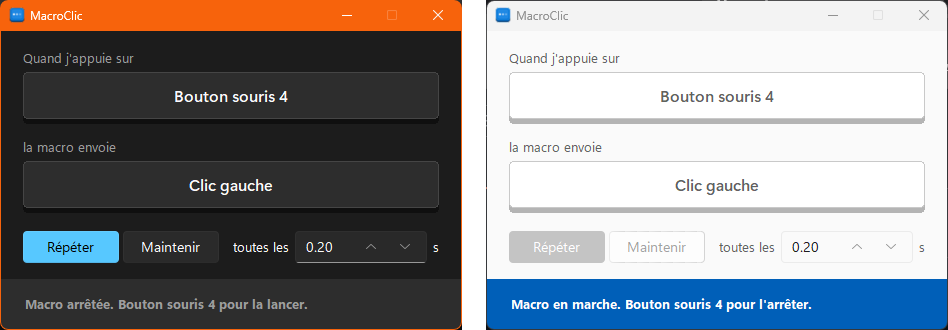
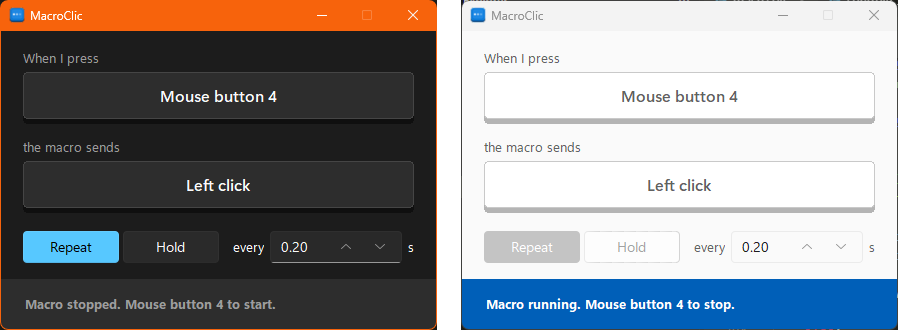
Translate the interface and key names to English
Key names no longer come from GetKeyNameTextW, which follows the keyboard
layout's language; saved names are rebuilt on load.

diff --git a/macroclic.py b/macroclic.py
@@ -24,9 +24,9 @@ PRESS_TIME = 0.04          # how long a repeated press stays down (seconds)
 MIN_INTERVAL, MAX_INTERVAL = 0.05, 3600
 CONFIG = Path(os.environ.get("APPDATA", ".")) / APP / "config.json"
 
-MOUSE_NAMES = {"left": "Clic gauche", "right": "Clic droit",
-               "middle": "Clic molette", "x1": "Bouton souris 4",
-               "x2": "Bouton souris 5"}
+MOUSE_NAMES = {"left": "Left click", "right": "Right click",
+               "middle": "Middle click", "x1": "Mouse button 4",
+               "x2": "Mouse button 5"}
 
 
 # ─── Inputs ───────────────────────────────────────────────────────────────────
@@ -47,8 +47,17 @@ def mouse_input(button):
 
 def key_input(vk, scan, ext):
     return {"id": key_id(vk, ext),
-            "name": winput.key_name(scan, ext) or f"Touche {vk}",
+            "name": winput.key_name(vk, ext),
             "scan": scan, "ext": ext}
+
+
+def renamed(inp):
+    """Copy with the display name rebuilt: names on disk may be stale (older
+    version, other keyboard layout) and aren't trusted."""
+    kind, _, value = inp["id"].partition(":")
+    if kind == "mouse":
+        return mouse_input(value)
+    return key_input(int(value.partition(":")[0]), inp["scan"], inp["ext"])
 
 
 def vk_of(inp):
@@ -74,8 +83,7 @@ def send(inp, up):
 def valid(inp, role):
     """role = "trigger" | "action". Left click can't be the trigger: it would
     be swallowed system-wide, including clicks on this window."""
-    if not (isinstance(inp, dict) and isinstance(inp.get("id"), str)
-            and isinstance(inp.get("name"), str)):
+    if not (isinstance(inp, dict) and isinstance(inp.get("id"), str)):
         return False
     kind, _, value = inp["id"].partition(":")
     if kind == "mouse":
@@ -108,7 +116,7 @@ def load_config():
         return
     for k in ("trigger", "action"):
         if valid(saved.get(k), k):
-            cfg[k] = saved[k]
+            cfg[k] = renamed(saved[k])
     interval = saved.get("interval")
     if not isinstance(interval, bool) and (value := parse_interval(interval)):
         cfg["interval"] = value
@@ -334,8 +342,8 @@ def build_ui(root):
             anchor="w", pady=(top, 6))
 
     keycaps = {}
-    for key, text, top in (("trigger", "Quand j'appuie sur", 0),
-                           ("action", "la macro envoie", 14)):
+    for key, text, top in (("trigger", "When I press", 0),
+                           ("action", "the macro sends", 14)):
         caption(text, top)
         keycaps[key] = Keycap(body, pal, scale, key_font,
                               lambda k=key: start_capture(k))
@@ -345,13 +353,13 @@ def build_ui(root):
     mode_row.pack(anchor="w", pady=(18, 0))
     hold = tk.BooleanVar(value=cfg["hold"])
     modes = []
-    for text, value, gap in (("Répéter", False, 4), ("Maintenir", True, 14)):
+    for text, value, gap in (("Repeat", False, 4), ("Hold", True, 14)):
         mode = ttk.Radiobutton(mode_row, text=text, value=value, variable=hold,
                                style="Toggle.TButton", width=9,
                                command=lambda: cfg.update(hold=hold.get()))
         mode.pack(side="left", padx=(0, gap))
         modes.append(mode)
-    every = ttk.Label(mode_row, text="toutes les", font=small)
+    every = ttk.Label(mode_row, text="every", font=small)
     every.pack(side="left")
     interval = tk.StringVar(value=f"{cfg['interval']:.2f}")
     spin = ttk.Spinbox(mode_row, from_=MIN_INTERVAL, to=MAX_INTERVAL, increment=0.05,
@@ -389,24 +397,24 @@ def build_ui(root):
             save_config()
         root.after(100, refresh)
         for key, cap in keycaps.items():
-            cap.show("Appuie sur une touche…" if capture == key
+            cap.show("Press a key or button…" if capture == key
                      else cfg[key]["name"], capture == key, not active)
         trig = cfg["trigger"]["name"]
         if hook_error:
-            text, bg, fg = (f"Raccourcis inactifs : {hook_error}",
+            text, bg, fg = (f"Trigger unavailable: {hook_error}",
                             pal["face"], pal["error"])
         elif capture == "trigger":
-            text, bg, fg = ("Appuie sur la touche ou le bouton de souris qui "
-                            "lancera la macro (pas le clic gauche). Échap pour "
-                            "annuler.", pal["face"], pal["fg"])
+            text, bg, fg = ("Press the key or mouse button that will start "
+                            "the macro (not left click). Esc to cancel.",
+                            pal["face"], pal["fg"])
         elif capture == "action":
-            text, bg, fg = ("Appuie sur la touche ou le bouton de souris à "
-                            "envoyer. Échap pour annuler.", pal["face"], pal["fg"])
+            text, bg, fg = ("Press the key or mouse button the macro should "
+                            "send. Esc to cancel.", pal["face"], pal["fg"])
         elif active:
-            text, bg, fg = (f"Macro en marche. {trig} pour l'arrêter.",
+            text, bg, fg = (f"Macro running. {trig} to stop.",
                             pal["accent"], pal["on_accent"])
         else:
-            text, bg, fg = (f"Macro arrêtée. {trig} pour la lancer.",
+            text, bg, fg = (f"Macro stopped. {trig} to start.",
                             pal["face"], pal["dim"])
         off = active or cfg["hold"]
         if (text, bg, fg, active, off) == shown:

diff --git a/winput.py b/winput.py
@@ -137,11 +137,31 @@ def release_stuck_mouse():
         time.sleep(0.02)
 
 
-def key_name(scan, extended):
-    """Key label in the active keyboard layout's language ("Entrée", "A")."""
-    buf = ctypes.create_unicode_buffer(32)
-    user32.GetKeyNameTextW((scan << 16) | (int(extended) << 24), buf, 32)
-    return buf.value
+# English names for keys without a printed character. Windows' own names
+# (GetKeyNameTextW) follow the keyboard layout's language.
+KEY_NAMES = {
+    0x08: "Backspace", 0x09: "Tab", 0x0D: "Enter", 0x13: "Pause",
+    0x14: "Caps Lock", 0x1B: "Esc", 0x20: "Space", 0x21: "Page Up",
+    0x22: "Page Down", 0x23: "End", 0x24: "Home", 0x25: "Left", 0x26: "Up",
+    0x27: "Right", 0x28: "Down", 0x2C: "Print Screen", 0x2D: "Insert",
+    0x2E: "Delete", 0x5B: "Left Win", 0x5C: "Right Win", 0x5D: "Menu",
+    0x6A: "Num *", 0x6B: "Num +", 0x6D: "Num -", 0x6E: "Num .", 0x6F: "Num /",
+    0x90: "Num Lock", 0x91: "Scroll Lock", 0xA0: "Left Shift",
+    0xA1: "Right Shift", 0xA2: "Left Ctrl", 0xA3: "Right Ctrl",
+    0xA4: "Left Alt", 0xA5: "Right Alt",
+    **{0x60 + i: f"Num {i}" for i in range(10)},
+    **{0x70 + i: f"F{i + 1}" for i in range(24)},
+}
+
+
+def key_name(vk, extended):
+    """English key label: a fixed name, or the character printed on the key."""
+    if vk == 0x0D and extended:
+        return "Num Enter"
+    if vk in KEY_NAMES:
+        return KEY_NAMES[vk]
+    char = user32.MapVirtualKeyW(vk, 2) & 0xFFFF  # MAPVK_VK_TO_CHAR, dead-key bit off
+    return chr(char).upper() if char > 0x20 else f"Key {vk}"
 
 
 # ─── Hooks ────────────────────────────────────────────────────────────────────

diff --git a/test_macroclic.py b/test_macroclic.py
@@ -52,7 +52,12 @@ assert not m.valid({"id": "key:65:1", "name": "A", "scan": 30, "ext": False}, "t
 assert not m.valid({"id": "mouse:nope"}, "action")
 assert not m.valid({"id": "key:65"}, "action")
 assert not m.valid(None, "action") and not m.valid({"id": 3}, "action")
-assert not m.valid({"id": "mouse:x1"}, "action")  # no name
+
+# Names are rebuilt in English, whatever the saved file says.
+assert m.renamed({"id": "mouse:x1", "name": "Bouton souris 4"})["name"] == "Mouse button 4"
+assert m.renamed({"id": "key:13:1", "scan": 0x1C, "ext": True})["name"] == "Num Enter"
+assert m.key_input(0x75, 0x40, False)["name"] == "F6"
+assert m.key_input(0x41, 0x10, False)["name"] == "A"
 
 # Interval parsing.
 assert m.parse_interval("0.5") == 0.5 and m.parse_interval("0") == m.MIN_INTERVAL

diff --git a/README.md b/README.md
@@ -14,10 +14,10 @@ Windows SmartScreen or your antivirus may warn about it, because the exe is unsi
 
 1. Click the first key, then press the key or mouse button that will start and stop the macro. Left click can't be used here, since every click would then be swallowed.
 2. Click the second key, then press what the macro should send: a key, or a left, right, middle or side mouse button.
-3. Choose **Répéter** and set how often to press, in seconds, or **Maintenir** to keep it held down.
+3. Choose **Repeat** and set how often to press, in seconds, or **Hold** to keep it held down.
 4. Press your trigger anywhere to start, and press it again to stop.
 
-The interface is in French. Settings are saved in `%APPDATA%\MacroClic\config.json`.
+Press Esc while choosing a key to cancel. Settings are saved in `%APPDATA%\MacroClic\config.json`.
 
 **Games running as administrator:** Windows blocks input from a normal program to an elevated one. Right-click `MacroClic.exe` and choose *Run as administrator*.
 
